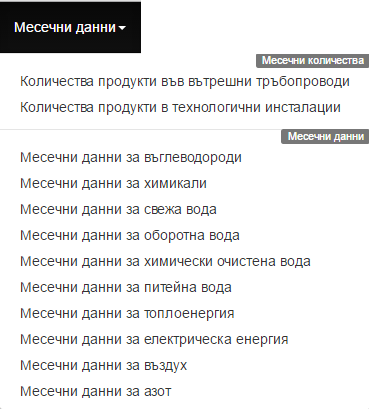
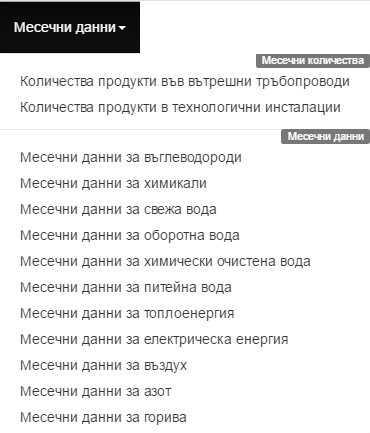
add MonthlyFuel in documentation

Changed region(s): [[0.0298, 0.3521, 0.8645, 0.9976], [0.0596, 0.1174, 1.0, 0.3521], [0.0, 0.0, 0.3875, 0.1467]]

diff --git a/Source/Web/CollectingProductionDataSystem.Web/App_GlobalResources/HelpResource.Designer.cs b/Source/Web/CollectingProductionDataSystem.Web/App_GlobalResources/HelpResource.Designer.cs
@@ -259,6 +259,15 @@ namespace App_GlobalResources.Resources {
         }
         
         /// <summary>
+        ///   Looks up a localized string similar to MonthlyFuel.
+        /// </summary>
+        public static string MonthlyFuel {
+            get {
+                return ResourceManager.GetString("MonthlyFuel", resourceCulture);
+            }
+        }
+        
+        /// <summary>
         ///   Looks up a localized string similar to MonthlyNitrogen.
         /// </summary>
         public static string MonthlyNitrogen {

diff --git a/Source/Web/CollectingProductionDataSystem.Web/Areas/Documentation/Controllers/HelpController.cs b/Source/Web/CollectingProductionDataSystem.Web/Areas/Documentation/Controllers/HelpController.cs
@@ -241,5 +241,9 @@ namespace CollectingProductionDataSystem.Web.Areas.Documentation.Controllers
               {
                     return PartialView();
               }
+        public PartialViewResult MonthlyFuel()
+              {
+                    return PartialView();
+              }
     }
 }
